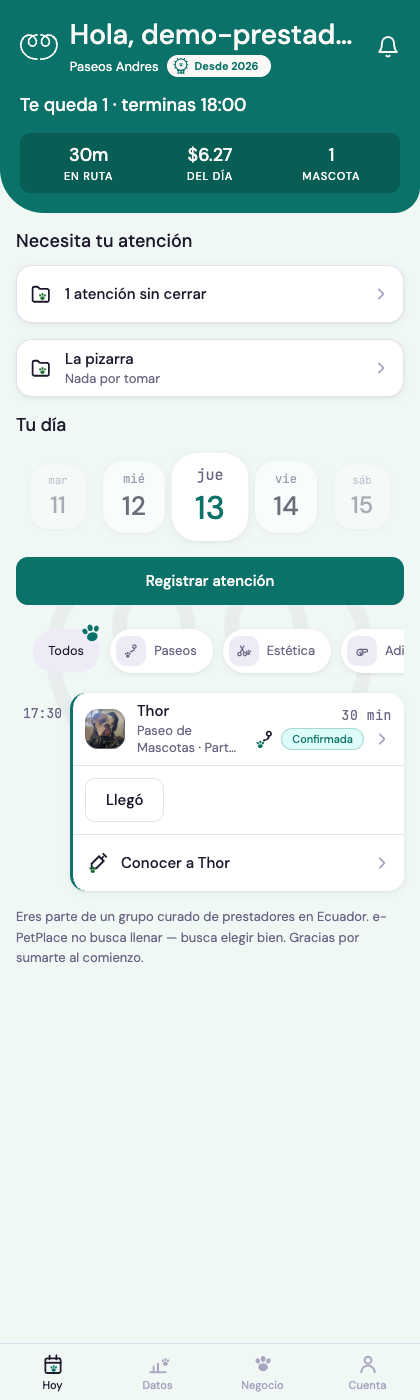
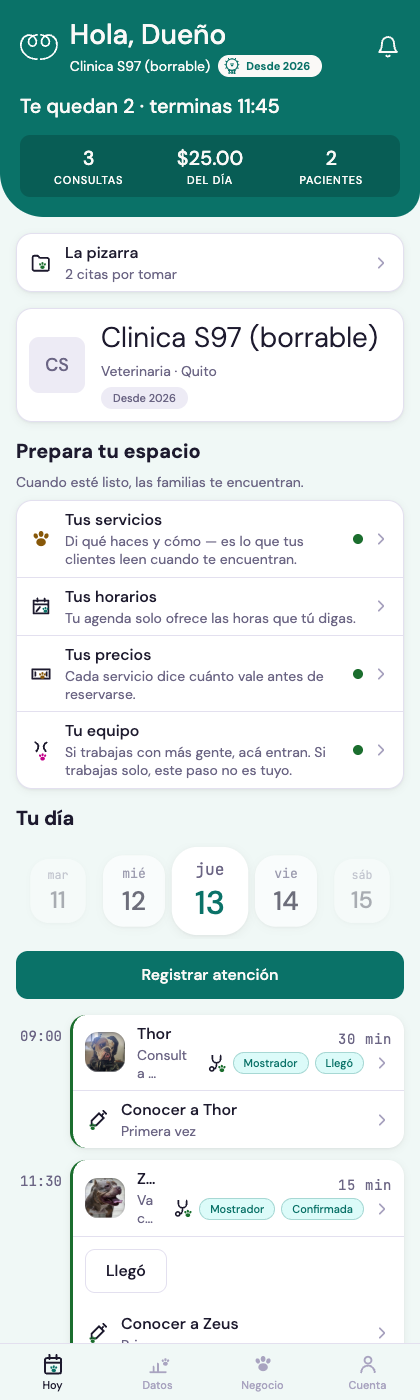
docs(s97-d): capturas con la escala N1 y el discriminador real + las dos correcciones en su lugar
CAPTURAS RE-HECHAS con la escala nueva (14/16/20) y con la cuenta que TIENE
el discriminador (duenovet / Clinica S97, clave del keychain). Las seis
anteriores eran de la escala vieja y NO valen — un gate con el arbol viejo no
falla: miente.

LO QUE PRUEBAN:
· 02 — la linea UNICA: 09:00 con chip «Llego» (el de puerta REEMPLAZANDO al
  generico) y 11:30 con «Confirmada» + el verbo «Llego» en SU fila. Sin banda
  duplicada. Hora en columna, las dos citas en orden.
· 04/05 apagado y encendido — el cuarto bloque en sus DOS estados: el toggle
  lee el rol real (encendido en teal para quien YA es administrador) y cada
  estado abre SU aviso antes del acto. El placeholder de §6 se ve que lo es.

DOS CORRECCIONES EN SU LUGAR, no en un addendum:
· atiende_local es COMUN A LOS CUATRO OFICIOS (correccion de A). Mi handoff
  decia «otro concepto, del grooming» — era la letra vieja y estaba mal.
· El hallazgo de la jornada lo curo A el mismo dia, y encontro un segundo
  hueco que yo no vi: administrador faltaba tambien en el gate de entrada.

DOS HALLAZGOS NUEVOS:
· PARA B — con la escala nueva el titulo de la fila TRUNCA a «Z...» y el
  subtitulo se parte. Mi cambio NO sumo chips (el de puerta reemplaza al de
  estado). NO afirmo la atribucion: no tengo antes/despues sobre la misma
  cuenta. La atribucion es de B, que tiene el par.
· LA FILA DE DESPACHO NO TIENE POBLACION: las tres cuentas con pedidos vivos
  tienen es_prestador=0 y el vendedor puro no pasa por el tab HOY. Correcta
[…]

diff --git a/docs/relevamientos/2026-08-13-s97-d-HANDOFF.md b/docs/relevamientos/2026-08-13-s97-d-HANDOFF.md
@@ -6,6 +6,28 @@ Worktree `e-petplace-s97-d`. Árbol limpio al escribir esto. Capturas del lote e
 
 ---
 
+> ## ✅ LOS DOS FRENOS SE RESOLVIERON EL MISMO DÍA — se conservan enteros abajo
+>
+> **F1 · la letra EXISTE** (`6199fb1f`). Mi medición fue **desfase de
+> minutos**, no error — el freno fue correcto igual, y la reconciliación se
+> hizo: **CERO CHOQUE**. §3 dice *«las tres fuentes se leen por separado y se
+> ordenan por hora EN EL LECTOR»*, que es literal `lineaItems`/`horaDeItem`;
+> y lo que prohíbe —*«una tabla de cosas del día con una columna tipo»*— no
+> se hizo: cero migración, el discriminador es un union de TypeScript **en la
+> vista**.
+>
+> **F2 · CORRECCIÓN DE A, Y MI LECTURA ERA LA LETRA VIEJA.**
+> `atencion_en_local` nunca fue columna nueva: **es `atiende_local`, y es
+> COMÚN A LOS CUATRO OFICIOS desde S61**. Abajo escribí *«es la modalidad
+> local-vs-domicilio del grooming — otro concepto»*: **eso es falso** y se
+> corrige acá en vez de dejarse, porque una prosa que declara ajeno un dato
+> propio manda a construir una columna que ya existe. **Y no se consume la
+> columna: se consume `puedeOfrecerRolRecepcion(prestadorId)`** (`281c881b`),
+> ya cableado, con la permisividad de **D-792** honrada — `false` esconde,
+> **`null` NO es un no**.
+
+---
+
 ## LOS DOS FRENOS, MEDIDOS (ninguno se esquivó por parecido)
 
 ### 🔴 F1 · `docs/LA_CASA_DEL_PRESTADOR.md` NO EXISTE
@@ -80,7 +102,11 @@ GRITA**; el botón dice «Dar el rol», jamás «hacerla administradora».
    fuente y el archivo no nace.
 2. **`atencion_en_local`** (F2) — decir si nace, o si `atiende_local` es la
    fuente, o si el pedido caduca.
-3. 🔴 **`obtener_jornada_recepcion` no contempla `administrador`.** Su cuerpo
+3. ✅ **CURADO POR A EL MISMO DÍA** (`20260814130000_s97a_jornada_recepcion_gestion.sql`)
+   — y A encontró un **segundo hueco que yo no vi**: `administrador` faltaba
+   **también en el gate de entrada** (`empleado_tiene_rol` listaba tres roles
+   y omitía el cuarto). El hallazgo original, conservado:
+   🔴 **`obtener_jornada_recepcion` no contempla `administrador`.** Su cuerpo
    calcula `v_ve_todo := v_es_titular OR NOT tiene_chip`, y su gate de entrada es
    `empleado_tiene_rol(['dueño','profesional','recepcion'])`. ⇒ **un administrador
    CON chips pierde la agenda de la puerta del negocio y ve solo lo suyo** — que
@@ -97,6 +123,34 @@ GRITA**; el botón dice «Dar el rol», jamás «hacerla administradora».
 ### PARA EL FOUNDER — LISTA DE FUNCIÓN (rojo producido)
 - Ninguno nuevo. El de la sesión anterior sigue: **las dos firmas de la plata del
   día** ya quedaron reconciliadas en el canon (§4ter gana).
+
+### 🔴 PARA B — EL RIESGO DE LAYOUT DE LA ESCALA, CON UN CASO
+**En la línea del HOY con la escala nueva (14/16/20) el título de la fila se
+trunca a una letra: `Z...`, y el subtítulo se parte a media palabra
+(`Consult a …`, `Va c…`).** Captura `02-hoy-linea.png` (Clínica S97).
+
+**El mecanismo, medido:** la fila compite por ancho entre título + subtítulo
+y un `fin` de glifo + **dos** chips (origen «Mostrador» + estado). **El
+segundo chip NO lo agregué yo**: el de puerta **reemplaza** al de estado, no
+se suma — el conteo es el mismo que antes.
+
+⚠ **Lo que NO puedo afirmar y no afirmo:** no tengo un antes/después sobre
+la MISMA cuenta (la captura vieja era de Paseos Andrés, con un solo chip), así
+que **no puedo atribuirlo a la escala con certeza** — solo decir que con la
+escala nueva está roto y que mi cambio no sumó chips. La atribución es de B,
+que tiene el par.
+
+### PARA LA MESA — LA FILA DE DESPACHO NO TIENE POBLACIÓN
+**Medido, no supuesto:** las tres cuentas con pedidos vivos
+(`nuevotest2` · `vendedorpuro` · `duenodes`) tienen **`es_prestador = 0`**.
+Son vendedores puros, y **el puro no pasa por el tab HOY** (entra por la
+raíz, §0bis). La fila exige alguien que sea **prestador Y** tenga pedidos
+vivos, **y esa población no está sembrada**.
+
+⇒ **La fila es correcta por letra (§3) y hoy no la puede ver nadie.** No es
+motor sin puerta: es **puerta sin población**. O se siembra el caso
+(prestador que además vende), o la fila espera. Se declara para que la
+ausencia en las capturas no se lea como que no funciona.
 
 ### PARA EL FOUNDER — LISTA DE DISEÑO (cero firma de forma)
 - **El verbo «Llegó» se lee como un botón suelto** dentro de la tarjeta de la
@@ -118,12 +172,32 @@ GRITA**; el botón dice «Dar el rol», jamás «hacerla administradora».
   comando, jamás del pipe (L-191). **`verify:diseno` VERDE, 26 reglas.**
 - **Capturas:** `scripts/capturas/s97-d-lote/` (6, cero errores JS) + el censo
   fotográfico previo, que hasta hoy vivía sin trackear.
-- ⚠ **EFECTO COLATERAL DECLARADO:** el `node_modules` de este worktree es un
-  **symlink al del primario** (los otros tres worktrees tienen el suyo). Le
-  faltaban los enlaces de workspace; el `pnpm install` que los creó **recreó el
-  node_modules del PRIMARIO** («Recreating /…/e-petplace/node_modules»). Lockfile
-  congelado y mismo commit ⇒ contenido idéntico, pero es un acto sobre territorio
-  ajeno y por eso se escribe. **Caso concreto de D-769.** Avisado a B.
+- ⚠ **EL EFECTO COLATERAL, Y SU CIERRE — EL CASO MEDIDO DE D-769.**
+  El `node_modules` de este worktree era un **symlink al del primario** (los
+  otros tres tienen el suyo). Le faltaban los enlaces de workspace; el
+  `pnpm install` que los creó **recreó el node_modules del PRIMARIO**
+  («Recreating /…/e-petplace/node_modules»).
+
+  **NO FUE INOCUO, y lo confirmó el otro lado:** el `verify:contrast` de B
+  falló en esa ventana con `runDepsStatusCheck` en el stack de pnpm y tuvo
+  que re-correr sus tres gates. *Un verde medido durante un install no es un
+  verde.*
+
+  **✅ CURADO por orden de la mesa:** el enlace se cortó con `rm` **sin
+  `-rf` y sin barra final** —borrar el enlace, jamás seguirlo hasta el
+  destino—, con el primario verificado intacto (422 entradas) en el mismo
+  acto; después `install` desde adentro del worktree. **Verificado que
+  ninguna ruta resuelve al primario:** raíz = directorio real · los cuatro
+  `@epetplace/*` resuelven a `packages/*` de este worktree · `expo`, `react`,
+  `react-native` y `expo-router` resueltos POR NODE caen en este árbol ·
+  barrido duro sobre todos los enlaces = **0 que caigan en el primario**.
+
+  > **LA LETRA PARA LA FICHA D-769:** *compartir `node_modules` entre
+  > worktrees hace que un install de una pista sea un acto sobre otra.*
+  > Corolario operativo medido el mismo día: **el puerto también se
+  > comparte** — Metro de C ocupaba :8081 y esta pista capturó en :8082 en
+  > vez de pisarlo. *Worktree por pista no alcanza si las dependencias y los
+  > puertos siguen siendo uno.*
 - **Un error propio, cazado por la propia captura:** la v1 del guion buscaba la
   fila del miembro por texto de ROL y caía en la del DUEÑO — la Hoja abría sin
   ningún bloque. No era defecto de la pantalla (`abrirMiembro` sale temprano para
